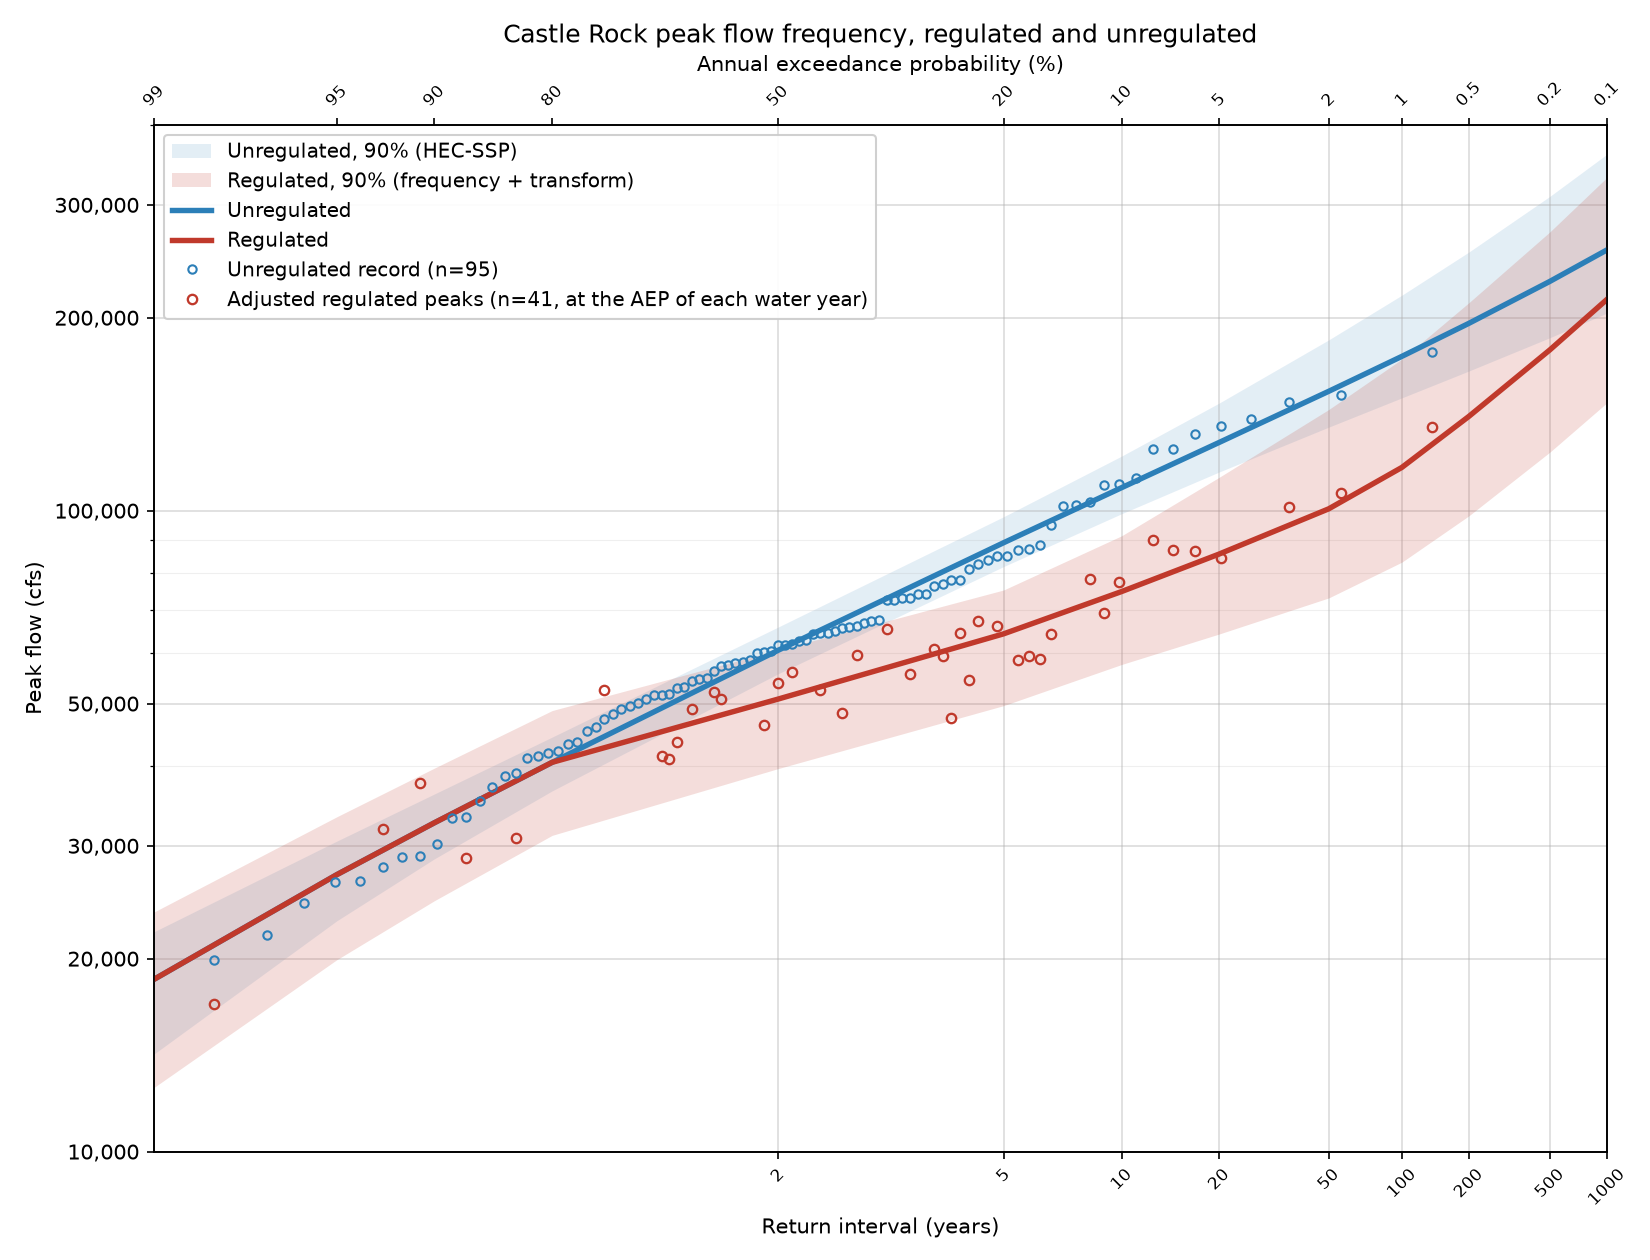
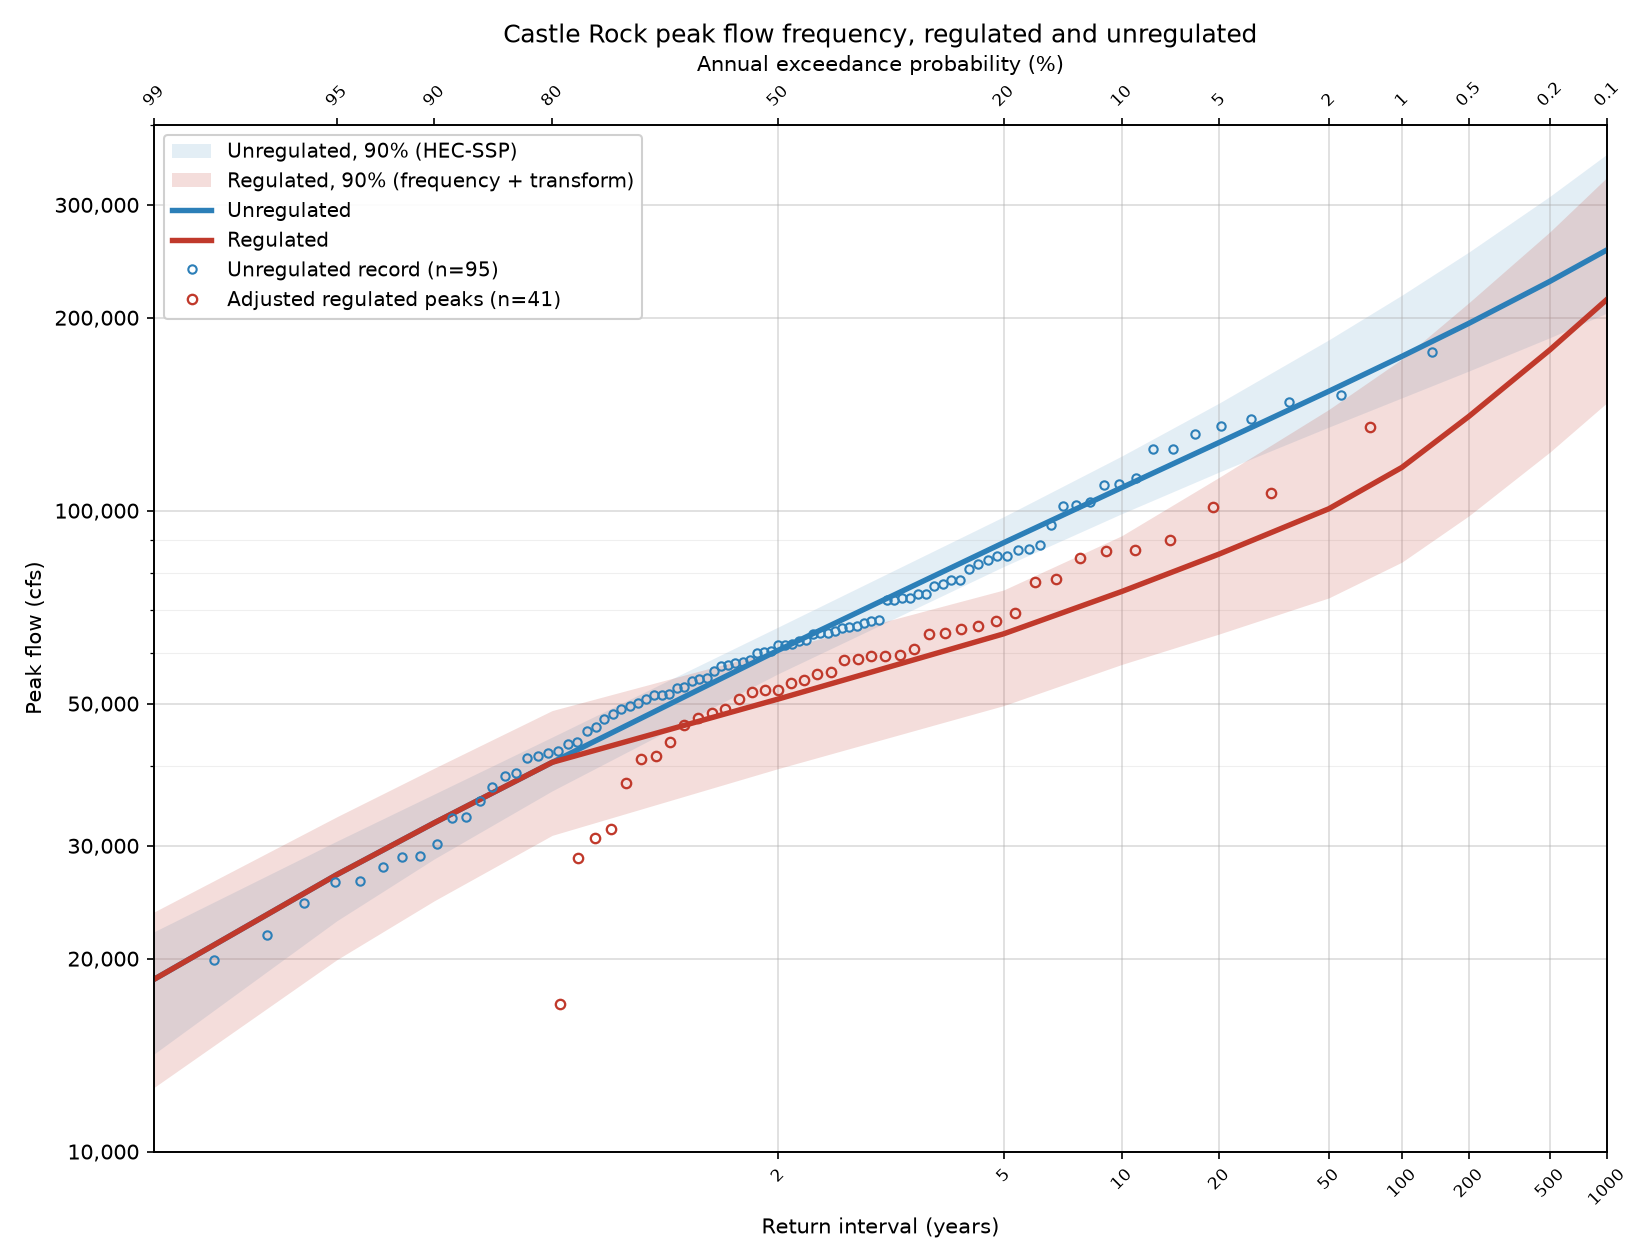
Three figure changes from review. Documents untouched.
Figure 5-6, the single source storm. The shape strain is dropped from the
legend, which now carries only the return interval each member targets. The x
axis label is Days.

Figure 5-7, the transform. The upper edge of the scatter band is clipped at
the 1:1 line, since a regulated peak cannot exceed the unregulated peak it was
routed from and the band had no business crossing it. The lower edge is held
parallel to 1:1 beyond the convergence at 325,000 cfs rather than continuing
to flare away from it. The band comes from a log sigma about a curve that is
itself converging, which sent the lower edge diverging downward exactly where
the physical argument says the two curves are closing. Holding it parallel is
the conservative reading of that, because it keeps the band open rather than
pinching it shut on an assumption about where it truly closes.

Figure 5-8, the adopted curves. The adjusted regulated peaks are now ranked
among themselves at median plotting positions, the same treatment the
unregulated record gets, so both clouds are built the same way and each rises
monotonically. The record length is the 51 water years assessed, 1974 through
2024, not the 41 usable values. The ten screened years are missing data rather
than years that never happened, so they go unranked. Using 41 would treat the
record as a complete 41 year sample and hand the largest value a 59 year
return interval inside a 51 year window.
[…]

diff --git a/CAS_Reg_Unreg/src/#Unreg_Reg_Curve.py b/CAS_Reg_Unreg/src/#Unreg_Reg_Curve.py
@@ -213,6 +213,29 @@ FINAL_SHOW_ADJUSTED_POINTS = True
 #     on, since each regulated ordinate inherits its AEP from the unregulated
 #     curve. On that basis the median ratio is 1.028 and the points split 22
 #     above and 19 below, which is scatter rather than bias.
+# HOW THE ADJUSTED REGULATED PEAKS ARE PLACED ON THE FREQUENCY AXIS
+#     They are ranked among themselves and given median plotting positions, the
+#     same treatment the unregulated record gets, so the two clouds are built
+#     the same way and each rises monotonically.
+#
+#     The record length is NOT the number of usable values. Fifty one water
+#     years were assessed, 1974 through 2024, and ten were screened out. Those
+#     ten are missing data, not years that never happened, so n is the assessed
+#     span and the screened years simply go unranked. Using n = 41 instead
+#     would treat the record as a complete 41 year sample and assign the
+#     largest value a 59 year return interval when it sits in a 51 year window.
+#
+#     For reference, measured as the median of observed over the curve at the
+#     plotted position:
+#         n = 41, the count of usable values      1.128, 40 of 41 above
+#         n = 51, the assessed span (adopted)     1.046, 32 of 41 above
+#         each year at its place in the 95 year
+#         unregulated record                      1.028, 22 of 41 above
+#     The last is the least biased but it does not rank, so the cloud is not
+#     monotone and it reads oddly beside the unregulated points.
+ADJUSTED_PP_USE_ASSESSED_SPAN = True
+ADJUSTED_PEAKS_ALL_CSV = r"../output/adjusted_peaks.csv"
+
 FULL_UNREG_RECORD_CSV = r"../../CAS_Unreg_FF/output/wy_record_ssp.csv"
 FULL_UNREG_WY_COL = "WY"
 FULL_UNREG_PEAK_COL = "Peak"
@@ -1627,43 +1650,35 @@ def load_full_unreg_points():
 
 
 def load_adjusted_points(path):
-    """The screened adjusted regulated peaks with the AEP of each water year.
+    """The screened adjusted regulated peaks at median plotting positions.
 
-    Returns (aep, flow) with the AEP taken from where that water year's
-    UNREGULATED peak ranks in the full record, not from ranking the adjusted
-    peaks among themselves. See FULL_UNREG_RECORD_CSV for why.
+    Ranked among themselves, like the unregulated record, but over the assessed
+    record length rather than the count of usable values. See
+    ADJUSTED_PP_USE_ASSESSED_SPAN for why.
     """
     if not os.path.exists(path):
         return None, None
     d = pd.read_csv(path)
     col = "adjusted_peak" if "adjusted_peak" in d.columns else d.columns[-1]
-    d = d[["WY", col]].dropna()
-    if not len(d):
+    v = pd.to_numeric(d[col], errors="coerce").dropna().values.astype(float)
+    if not len(v):
         return None, None
 
-    if not os.path.exists(FULL_UNREG_RECORD_CSV):
-        print("   WARNING %s is missing, so the adjusted peaks are not plotted."
-              % FULL_UNREG_RECORD_CSV)
-        return None, None
+    n = len(v)
+    if ADJUSTED_PP_USE_ASSESSED_SPAN and os.path.exists(ADJUSTED_PEAKS_ALL_CSV):
+        allwy = pd.read_csv(ADJUSTED_PEAKS_ALL_CSV)["WY"].dropna().astype(int)
+        span = int(allwy.max() - allwy.min() + 1)
+        if span >= len(v):
+            n = span
+            print("   adjusted peaks: %d usable values ranked over the %d year "
+                  "assessed record, WY%d to WY%d"
+                  % (len(v), n, allwy.min(), allwy.max()))
+    if n == len(v):
+        print("   adjusted peaks: %d values ranked among themselves" % n)
 
-    full = pd.read_csv(FULL_UNREG_RECORD_CSV)[
-        [FULL_UNREG_WY_COL, FULL_UNREG_PEAK_COL]].dropna()
-    full = full.sort_values(FULL_UNREG_PEAK_COL, ascending=False).reset_index(drop=True)
-    n = len(full)
-    full["aep"] = (full.index + 1 - 0.3) / (n + 0.4)
-
-    m = d.merge(full[[FULL_UNREG_WY_COL, "aep"]],
-                left_on="WY", right_on=FULL_UNREG_WY_COL, how="left")
-    missing = int(m["aep"].isna().sum())
-    if missing:
-        print("   NOTE %d adjusted year(s) are not in the %d year unregulated "
-              "record and are not plotted." % (missing, n))
-    m = m.dropna(subset=["aep"])
-    if not len(m):
-        return None, None
-    print("   adjusted peaks placed at plotting positions from the %d year "
-          "unregulated record" % n)
-    return m["aep"].values, m[col].values.astype(float)
+    v = np.sort(v)[::-1]
+    aep = (np.arange(1, len(v) + 1) - 0.3) / (n + 0.4)
+    return aep, v
 
 
 def plot_final_uncertainty(freq, fit, unc, reg_curve, table_2009, stem):
@@ -1705,8 +1720,7 @@ def plot_final_uncertainty(freq, fit, unc, reg_curve, table_2009, stem):
             ax.plot(stats.norm.ppf(1.0 - aep_pts), v_pts, ls="none",
                     marker="o", ms=4.5, mfc="none", mew=1.1, color=C_REG,
                     zorder=6,
-                    label="Adjusted regulated peaks (n=%d, at the AEP of each "
-                          "water year)" % len(v_pts))
+                    label="Adjusted regulated peaks (n=%d)" % len(v_pts))
 
     if FINAL_SHOW_SUPPORT_MARKER:
         supported = unreg_curve <= fit["x_max"]

diff --git a/CAS_Reg_Unreg/src/#Transform_Convergence_Figure.py b/CAS_Reg_Unreg/src/#Transform_Convergence_Figure.py
@@ -178,13 +178,33 @@ def main():
     # frequency sigma. Drawn here so the reader can see where it came from.
     if SHOW_TRANSFORM_BAND and {"sigma_transform_lo_dex",
                                 "sigma_transform_hi_dex"} <= set(reg.columns):
-        base = reg["reg_inferred_cfs"].values
+        u = reg["unreg_expected_cfs"].values.astype(float)
+        base = reg["reg_inferred_cfs"].values.astype(float)
         lo = base / 10.0 ** (TRANSFORM_BAND_Z
                              * reg["sigma_transform_lo_dex"].values)
         hi = base * 10.0 ** (TRANSFORM_BAND_Z
                              * reg["sigma_transform_hi_dex"].values)
-        ax.fill_between(reg["unreg_expected_cfs"].values, lo, hi,
-                        color=C_CURVE, alpha=0.13, lw=0, zorder=2,
+
+        # A regulated peak cannot exceed the unregulated peak it was routed
+        # from, so the upper edge of the band cannot cross the 1:1 line.
+        hi = np.minimum(hi, u)
+
+        # Past the convergence the lower edge is held parallel to 1:1 rather
+        # than allowed to keep flaring away from it. The band is drawn from a
+        # log sigma about a curve that is itself converging, which sends the
+        # lower edge diverging downward exactly where the physical argument
+        # says the two curves are closing. The reservoir has filled by then and
+        # is passing inflow, so the spread should stop widening. It very likely
+        # closes on 1:1 as well, and holding it parallel is the conservative
+        # version of that, since it keeps the band open rather than pinching it
+        # shut on an assumption.
+        if CONVERGE_AT_CFS > u.min():
+            lo_at_conv = float(np.interp(CONVERGE_AT_CFS, u, lo))
+            offset = CONVERGE_AT_CFS - lo_at_conv
+            beyond = u > CONVERGE_AT_CFS
+            lo = np.where(beyond, u - offset, lo)
+
+        ax.fill_between(u, lo, hi, color=C_CURVE, alpha=0.13, lw=0, zorder=2,
                         label="Transform scatter, 5%-95%")
 
     if SHOW_EVENT_POINTS:

diff --git a/CAS_Reg_Unreg/src/#Create_Synthetic_Ensembles.py b/CAS_Reg_Unreg/src/#Create_Synthetic_Ensembles.py
@@ -1061,16 +1061,14 @@ def plot_event_single(events, mapping, stem, label=None):
                      if row["scaling_method"] == "volume_matched"
                      else scale_linear_taper(ev["total"].values, ev["index"],
                                              row["target_unreg_peak_cfs"]))
-        ax.plot(hours, scaled, lw=1.6,
-                label="%s  (strain %.2f)" % (row["target"], row["shape_strain"]))
-    ax.plot(hours, ev["total"].values, color="k", lw=2.2,
-            label="observed x1.00")
+        ax.plot(hours, scaled, lw=1.6, label="%s" % row["target"])
+    ax.plot(hours, ev["total"].values, color="k", lw=2.2, label="observed")
     peak_day = float(np.argmax(ev["total"].values)) / 24.0
     ax.axvspan(peak_day - VOLUME_HALF_WIDTH_DAYS,
                peak_day + VOLUME_HALF_WIDTH_DAYS,
                color="#2c7fb8", alpha=0.12, zorder=0,
                label="+/- %.1f day volume window" % VOLUME_HALF_WIDTH_DAYS)
-    ax.set_xlabel("Days into the member window")
+    ax.set_xlabel("Days")
     ax.set_ylabel("Unregulated flow (cfs)")
     ax.yaxis.set_major_formatter(plt.FuncFormatter(
         lambda v, _: format(int(v), ",")))
